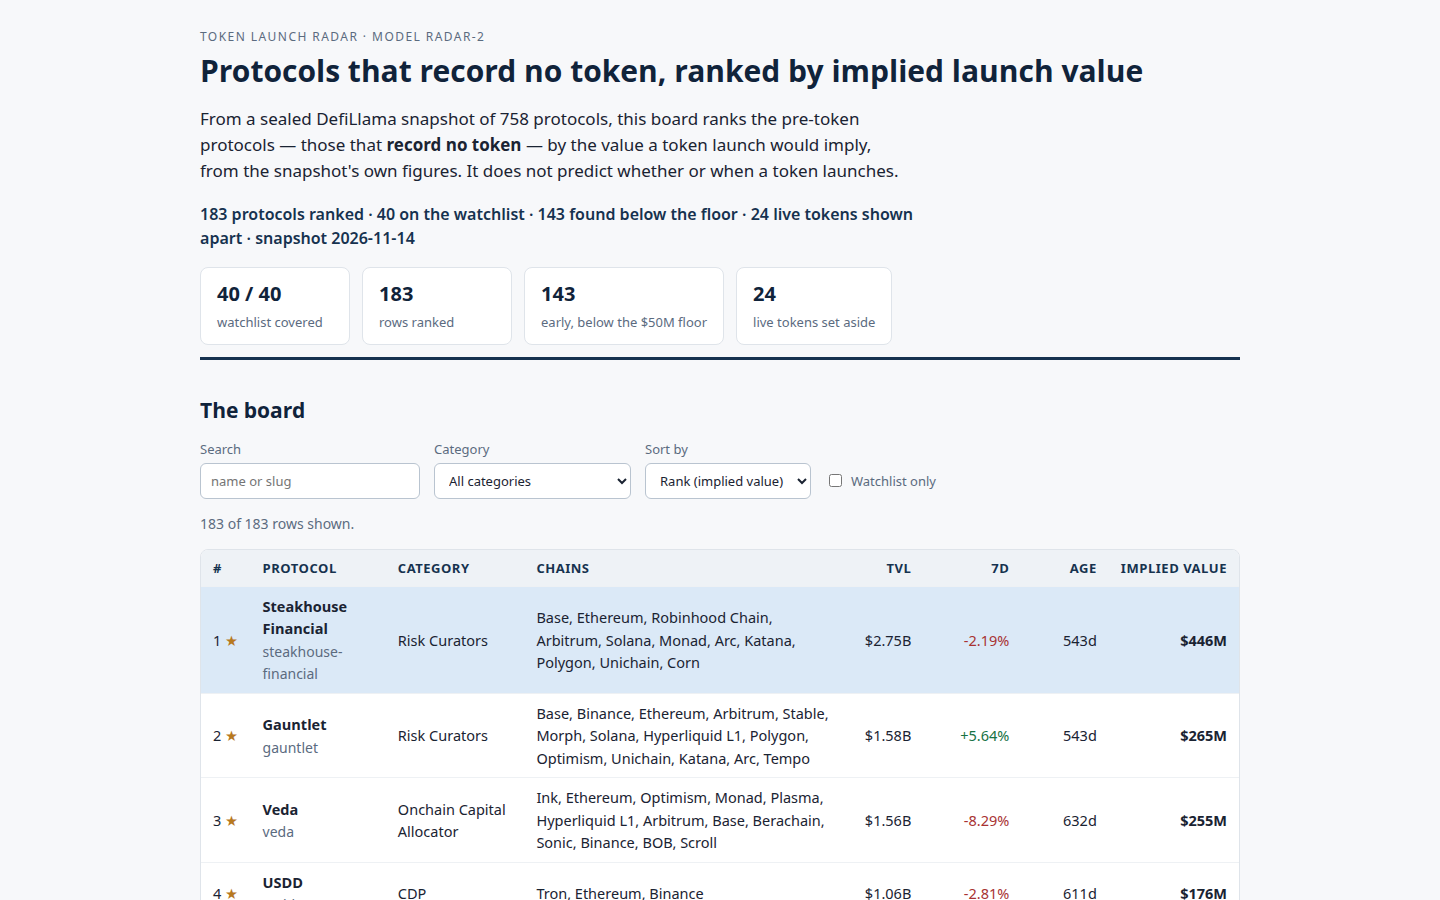
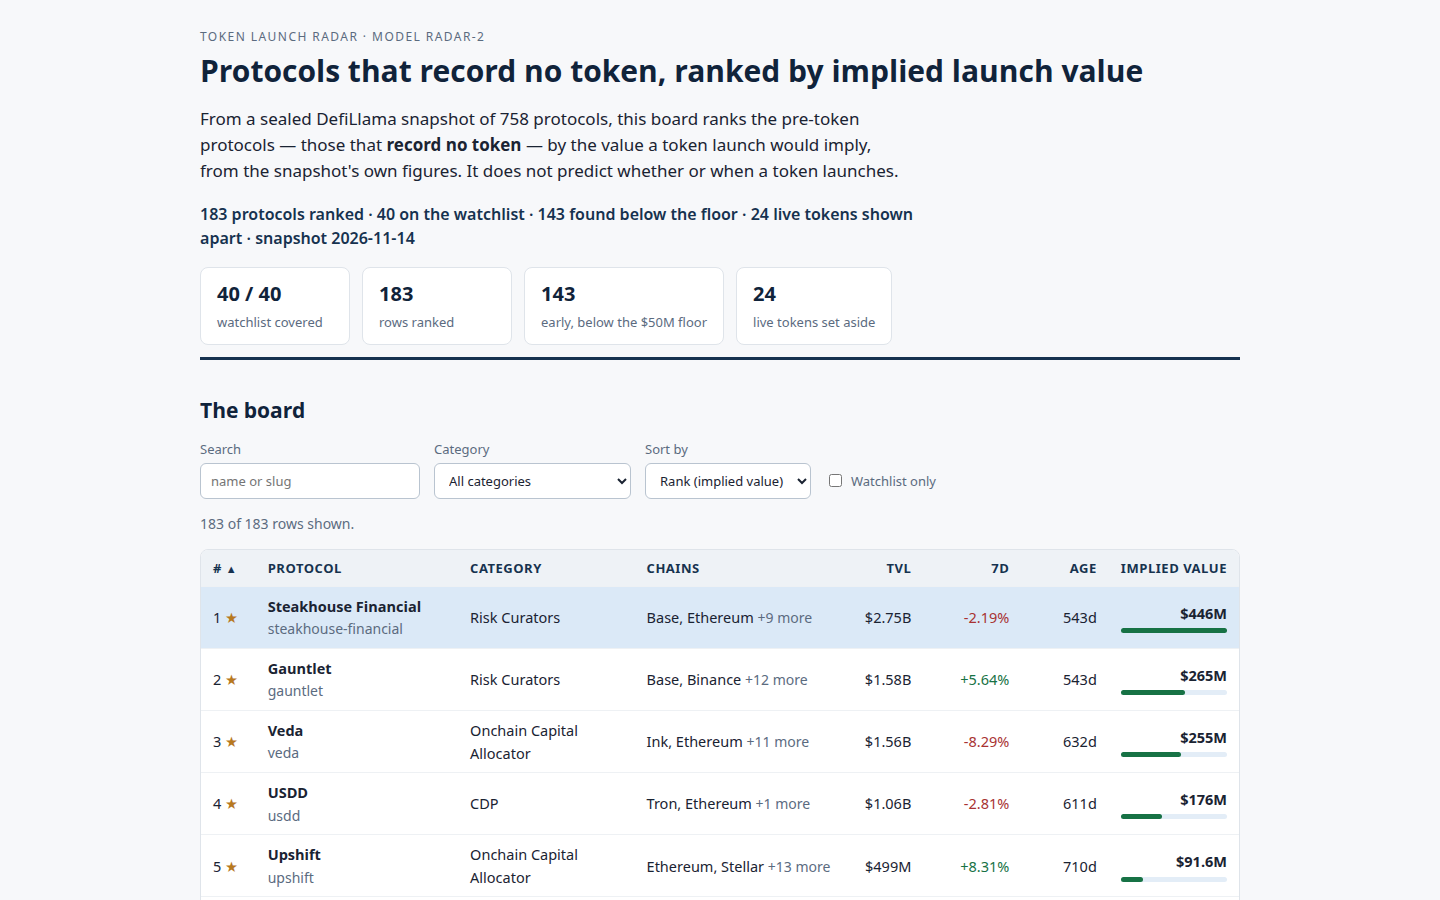
Token Radar pivot P3: chains trimmed, value bars, clickable sort headers (criteria 4/5)
- Board Chains cell shows the first 2 chains + '+N more'; the detail view
  still lists every chain. Rows drop from 3 lines tall to 1.
- Green bar under each implied value, length proportional to the rank-1
  row, so the ranking reads at a glance.
- All 5 sortable headers (#, TVL, 7d, Age, Implied value) are buttons:
  click sets the key, click again toggles direction, arrow shows the
  active sort; the Sort dropdown stays in sync (shared state).
- Verified by eye: 5 rows in frame (was 3.5), bars shrink with value,
  '# ▲' marks the active sort.

diff --git a/dashboard/app.js b/dashboard/app.js
@@ -62,6 +62,21 @@
   });
 
   var selected = null;
+  // Sort state: the dropdown and the clickable column headers share it.
+  // dir 1 = ascending by key, -1 = descending; rank ascending puts #1 first.
+  var sortKey = 'rank';
+  var sortDir = 1;
+  var sortDefaults = { rank: 1, tvl: -1, change: -1, age: -1, implied: -1 };
+  var maxImplied = R.rows.length ? R.rows[0].implied_value_usd : 1; // rows arrive rank-sorted
+  function updateSortUI() {
+    document.querySelectorAll('#board th[data-sort]').forEach(function (th) {
+      var arrow = th.querySelector('.arrow');
+      if (!arrow) return;
+      arrow.textContent = th.getAttribute('data-sort') === sortKey ? (sortDir === 1 ? '▲' : '▼') : '';
+    });
+    $('sort').value = sortKey === 'implied' ? 'rank' : sortKey;
+  }
+
   function visibleRows() {
     var q = $('q').value.trim().toLowerCase();
     var cat = $('cat').value;
@@ -72,11 +87,15 @@
       if (wOnly && !watchlist.has(r.slug)) return false;
       return true;
     });
-    var sort = $('sort').value;
-    if (sort === 'tvl') rows.sort(function (a, b) { return b.tvl_usd - a.tvl_usd; });
-    else if (sort === 'change') rows.sort(function (a, b) { return (b.change_7d || 0) - (a.change_7d || 0); });
-    else if (sort === 'age') rows.sort(function (a, b) { return (b.age_days || 0) - (a.age_days || 0); });
-    else rows.sort(function (a, b) { return a.rank - b.rank; });
+    rows.sort(function (a, b) {
+      var av, bv;
+      if (sortKey === 'tvl') { av = a.tvl_usd; bv = b.tvl_usd; }
+      else if (sortKey === 'change') { av = a.change_7d || 0; bv = b.change_7d || 0; }
+      else if (sortKey === 'age') { av = a.age_days || 0; bv = b.age_days || 0; }
+      else if (sortKey === 'implied') { av = a.implied_value_usd; bv = b.implied_value_usd; }
+      else { av = a.rank; bv = b.rank; }
+      return (av - bv) * sortDir;
+    });
     return rows;
   }
 
@@ -88,15 +107,22 @@
       var tr = document.createElement('tr');
       if (selected === r.slug) tr.className = 'selected';
       if (watchlist.has(r.slug)) tr.className += ' watch';
+      // Chains: first two only, the rest counted — the detail view lists all.
+      var chains = r.chains || [];
+      var chainsHtml = chains.length <= 2
+        ? esc(chains.join(', ') || '—')
+        : esc(chains.slice(0, 2).join(', ')) + ' <span class="meta">+' + (chains.length - 2) + ' more</span>';
+      // Implied-value bar: length ∝ value against the rank-1 row.
+      var barPct = Math.max(2, Math.round(r.implied_value_usd / maxImplied * 100));
       tr.innerHTML =
         '<td>' + r.rank + '</td>' +
         '<td><strong>' + esc(r.name) + '</strong><br><span class="meta">' + esc(r.slug) + '</span></td>' +
         '<td>' + esc(r.category || '—') + '</td>' +
-        '<td>' + esc((r.chains || []).join(', ') || '—') + '</td>' +
+        '<td>' + chainsHtml + '</td>' +
         '<td class="num">' + money(r.tvl_usd) + '</td>' +
         '<td class="num">' + pct(r.change_7d) + '</td>' +
         '<td class="num">' + ageText(r.age_days) + '</td>' +
-        '<td class="num"><strong>' + money(r.implied_value_usd) + '</strong></td>';
+        '<td class="num"><strong>' + money(r.implied_value_usd) + '</strong><span class="bar"><i style="width:' + barPct + '%"></i></span></td>';
       tr.addEventListener('click', function () { showDetail(r.slug); });
       tb.appendChild(tr);
     });
@@ -168,10 +194,27 @@
     });
   })();
 
+  // Clickable column headers: same key again toggles direction, a new key takes its default.
+  document.querySelectorAll('#board th[data-sort]').forEach(function (th) {
+    th.querySelector('button').addEventListener('click', function () {
+      var key = th.getAttribute('data-sort');
+      if (sortKey === key) sortDir = -sortDir;
+      else { sortKey = key; sortDir = sortDefaults[key]; }
+      updateSortUI();
+      renderBoard();
+    });
+  });
+  // The dropdown sets the key (direction resets to that key's default).
+  $('sort').addEventListener('change', function () {
+    sortKey = $('sort').value;
+    sortDir = sortDefaults[sortKey];
+    updateSortUI();
+  });
   ['q', 'cat', 'sort', 'watch-only'].forEach(function (id) {
     $(id).addEventListener('input', renderBoard);
     $(id).addEventListener('change', renderBoard);
   });
+  updateSortUI();
   renderBoard();
   // Open the top row's detail by default so the detail view is visible on load.
   if (R.rows.length) showDetail(R.rows[0].slug);

diff --git a/dashboard/index.html b/dashboard/index.html
@@ -40,9 +40,11 @@
     <div class="table-wrap">
       <table id="board">
         <thead><tr>
-          <th>#</th><th>Protocol</th><th>Category</th><th>Chains</th>
-          <th class="num">TVL</th><th class="num">7d</th><th class="num">Age</th>
-          <th class="num">Implied value</th>
+          <th data-sort="rank"><button type="button"># <span class="arrow"></span></button></th><th>Protocol</th><th>Category</th><th>Chains</th>
+          <th class="num" data-sort="tvl"><button type="button">TVL <span class="arrow"></span></button></th>
+          <th class="num" data-sort="change"><button type="button">7d <span class="arrow"></span></button></th>
+          <th class="num" data-sort="age"><button type="button">Age <span class="arrow"></span></button></th>
+          <th class="num" data-sort="implied"><button type="button">Implied value <span class="arrow"></span></button></th>
         </tr></thead>
         <tbody></tbody>
       </table>

diff --git a/dashboard/app.css b/dashboard/app.css
@@ -41,6 +41,11 @@ td.num, th.num { white-space: nowrap; }
 #board td:nth-child(2), #board td:nth-child(4) { white-space: normal; }
 th { background: #eef2f6; color: #16324f; font-size: 13px; text-transform: uppercase; letter-spacing: .04em; }
 td.num, th.num { text-align: right; font-variant-numeric: tabular-nums; }
+th button { background: none; border: 0; padding: 0; font: inherit; color: inherit; text-transform: inherit; letter-spacing: inherit; cursor: pointer; }
+th button .arrow { font-size: 11px; }
+th button:focus-visible { outline: 2px solid #16324f; outline-offset: 2px; }
+.bar { display: block; height: 5px; background: #e3edf7; border-radius: 3px; margin-top: 4px; }
+.bar i { display: block; height: 100%; background: #177245; border-radius: 3px; }
 tbody tr { cursor: pointer; }
 tbody tr:hover { background: #f0f5fa; }
 tbody tr.selected { background: #dbe9f7; }
